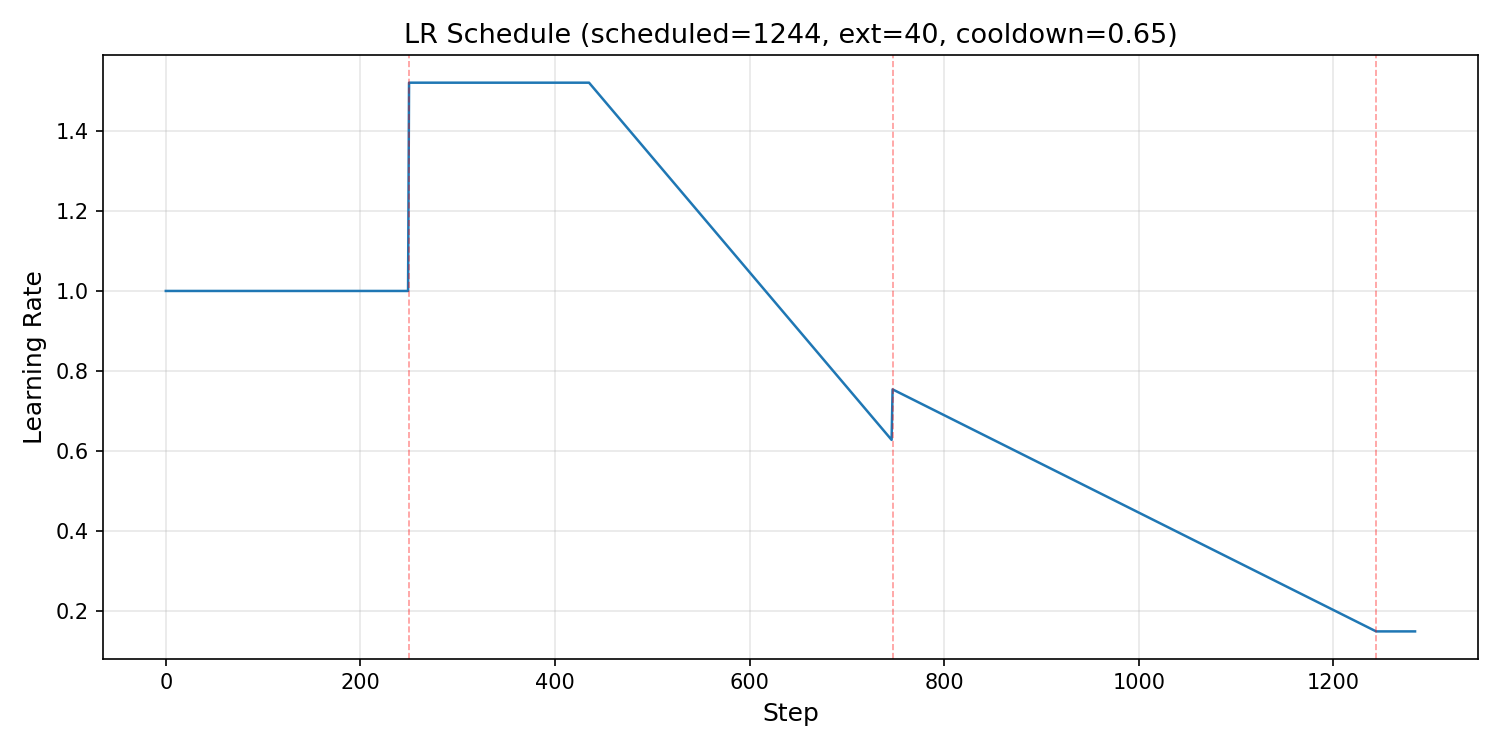
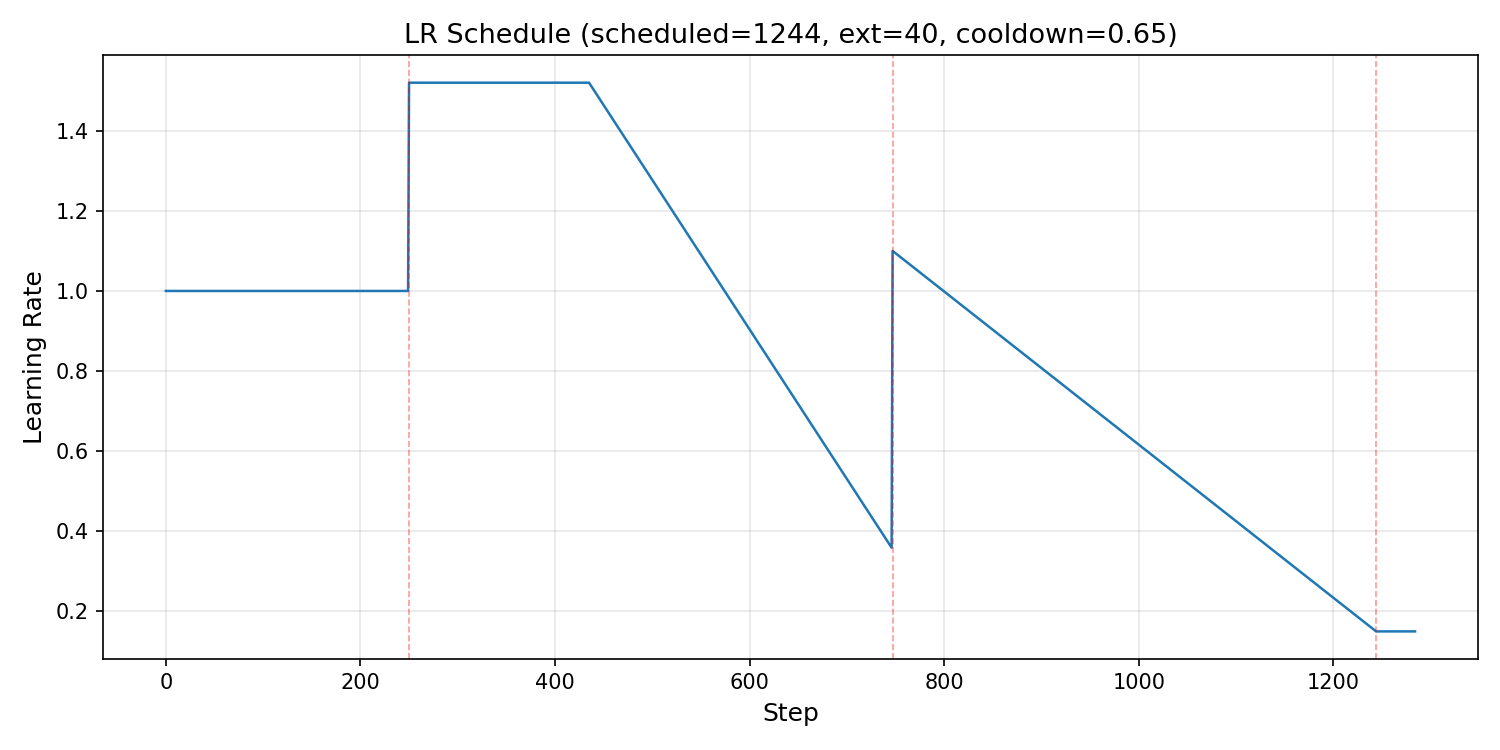
Add per-stage lr_floor and independent w2 scheduling
- Each stage now respects its own lr_floor instead of hardcoded 0.15
- Stage 2 (w2) starts from its own lr_mul, independent of w1's floor
- Add compute_schedule_from_steps helper for calculating durations
- Update schedule: [250, 497, 497] steps, cooldown_frac=0.65

diff --git a/src/s07_schedule.py b/src/s07_schedule.py
@@ -20,7 +20,7 @@ class Hyperparameters:
     # batch sizes
     val_batch_size: int = 4 * 64 * 1024 * 8
     # schedule
-    num_scheduled_iterations: int = 450  # number of steps to complete lr and ws schedule
+    num_scheduled_iterations: int = 1244  # number of steps to complete lr and ws schedule
     num_extension_iterations: int = 40  # number of steps to continue training at final lr and ws
     # evaluation and logging
     run_id: str = f"{uuid.uuid4()}"
@@ -99,11 +99,11 @@ class TrainingSchedule:
     def get_lr(self, step: int) -> float:
         stage, _ = self.lookup(step)
 
-        # Stage 3: linear from original start LR to lr_floor
+        # Stage 2 (w2): linear from lr_mul to lr_floor (independent of previous stage)
         s3_start, s3_end = self.boundaries[2]
         if s3_start <= step < s3_end:
             t = (step - s3_start) / (s3_end - s3_start)
-            return self._stage3_start_lr * (1 - t) + stage.lr_floor * t
+            return stage.lr_mul * (1 - t) + stage.lr_floor * t
 
         # Extension: linear from lr_mul to lr_floor
         ext_start, ext_end = self.boundaries[3]
@@ -120,19 +120,20 @@ class TrainingSchedule:
         return lr
 
 # window_sizes are in units of `block_size` tokens (defined in TrainingManager)
+# Stage steps: [250, 497, 497] -> durations: [0.200965, 0.399518, 0.399518]
 TRAINING_STAGES = [
-    TrainingStage(duration=1/3, train_max_seq_len=896, batch_size=8 * 2048 * 8, window_sizes=(1, 3), lr_mul=1.0,
+    TrainingStage(duration=0.200965, train_max_seq_len=896, batch_size=8 * 2048 * 8, window_sizes=(1, 3), lr_mul=1.0,
                   mtp_weights_start=[1.0, 0.5, 0.25], mtp_weights_end=[1.0, 0.5, 0.0]),
-    TrainingStage(duration=1/3, train_max_seq_len=2048, batch_size=16 * 2048 * 8, window_sizes=(3, 7), lr_mul=1.52,  # (16/8)**0.6
+    TrainingStage(duration=0.399518, train_max_seq_len=2048, batch_size=16 * 2048 * 8, window_sizes=(3, 7), lr_mul=1.52, lr_floor=-1.5,  # (16/8)**0.6
                   mtp_weights_start=[1.0, 0.5], mtp_weights_end=[1.0, 0.0]),
-    TrainingStage(duration=1/3, train_max_seq_len=2048, batch_size=24 * 2048 * 8, window_sizes=(5, 11), lr_mul=1.73, lr_floor=0.15,  # (24/8)**0.5
+    TrainingStage(duration=0.399518, train_max_seq_len=2048, batch_size=24 * 2048 * 8, window_sizes=(5, 11), lr_mul=1.1, lr_floor=0.15,  # (24/8)**0.5
                   mtp_weights_start=[1.0], mtp_weights_end=[1.0]),
     # extension stage
     TrainingStage(train_max_seq_len=2048, batch_size=24 * 2048 * 8, window_sizes=(6, 13), lr_mul=0.15, lr_floor=0.15,
                   mtp_weights_start=[1.0], mtp_weights_end=[1.0]),
 ]
 
-training_schedule = TrainingSchedule(TRAINING_STAGES, args.num_scheduled_iterations, args.num_extension_iterations, cooldown_frac=0.55)
+training_schedule = TrainingSchedule(TRAINING_STAGES, args.num_scheduled_iterations, args.num_extension_iterations, cooldown_frac=0.65)
 
 def get_muon_momentum(step: int, muon_warmup_steps=300, muon_cooldown_steps=50, momentum_min=0.85, momentum_max=0.95):
     # warmup phase: linearly increase momentum from min to max

diff --git a/utils/plot_lr_schedule.py b/utils/plot_lr_schedule.py
@@ -39,8 +39,8 @@ SCHEDULED_ITERATIONS, durations = compute_schedule_from_steps(STAGE_STEPS)
 # Mirror the stages from s07_schedule.py
 STAGES = [
     Stage(duration=durations[0], lr_mul=1.0, lr_floor=0.15),
-    Stage(duration=durations[1], lr_mul=1.52, lr_floor=-0.8),
-    Stage(duration=durations[2], lr_mul=1.73, lr_floor=0.15),
+    Stage(duration=durations[1], lr_mul=1.52, lr_floor=-1.5),
+    Stage(duration=durations[2], lr_mul=1.1, lr_floor=0.15),
     Stage(duration=None, lr_mul=0.15, lr_floor=0.15),  # extension
 ]
 EXTENSION_ITERATIONS = 40
@@ -85,11 +85,11 @@ def get_lr(step):
     # Stages 0 and 1: original behavior
     if idx <= 1:
         return get_lr_original(step)
-    # Stage 2 (third stage): linear from original start LR to lr_floor
+    # Stage 2 (third stage): linear from lr_mul to lr_floor (independent of previous stage)
     if idx == 2:
         start, end = boundaries[2]
         t = (step - start) / (end - start)
-        return STAGE3_START_LR * (1 - t) + STAGE3_END_LR * t
+        return stage.lr_mul * (1 - t) + stage.lr_floor * t
     # Extension: linear from lr_mul to lr_floor
     start, end = boundaries[3]
     t = (step - start) / (end - start)
